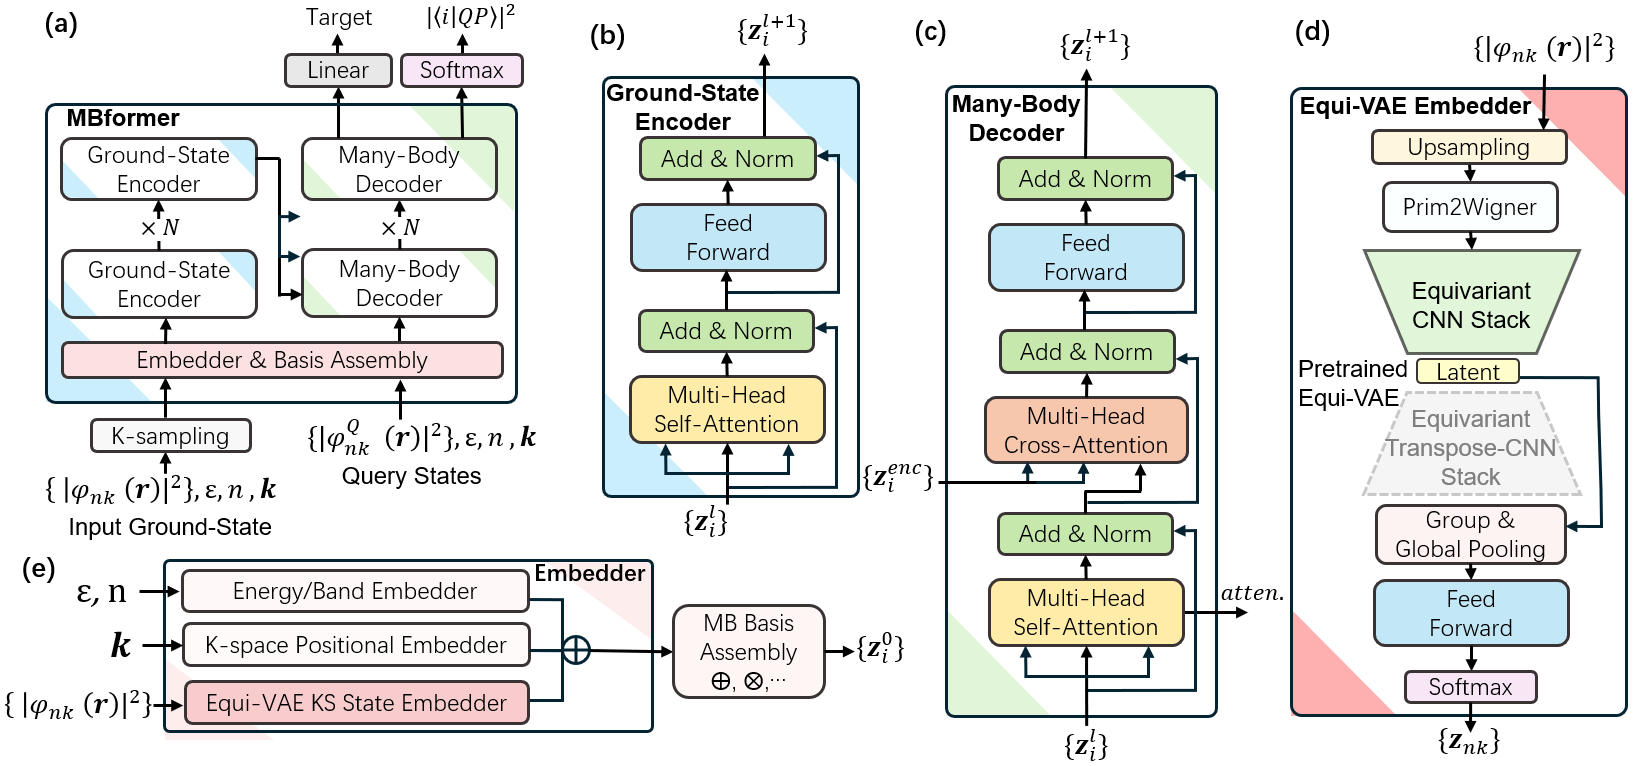
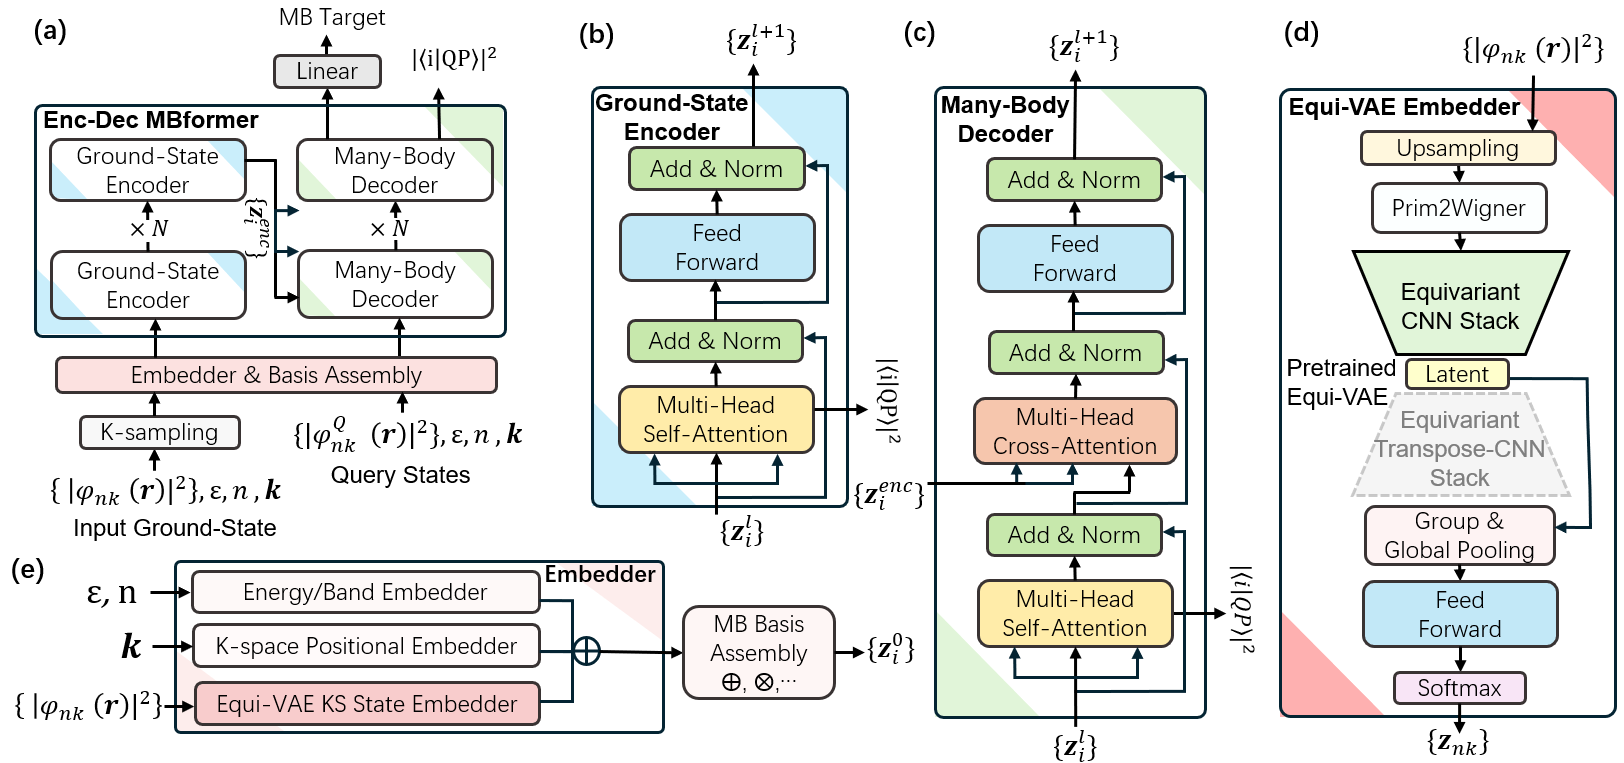
attention layer is added on top of encoder

diff --git a/src/from_model/transformer.py b/src/from_model/transformer.py
@@ -11,86 +11,126 @@ import logging
 from e2vae import print_model_size
 from posemb import PositionalEmbeddings_band_energy_kpt
 from basisassembly import PassBasisAssembly, ElectronHoleBasisAssembly_Concatenate, ElectronHoleBasisAssembly_TensorProduct
+from functools import wraps
+
+def timeCudaWatch(func):
+    """Decorator to measure execution time of a function."""
+    @wraps(func)
+    def wrapper(*args, **kwargs):
+        start = torch.cuda.Event(enable_timing=True)
+        end = torch.cuda.Event(enable_timing=True)
+        
+        start.record()
+        result = func(*args, **kwargs)
+        end.record()
+        torch.cuda.synchronize()
+        
+        logging.debug(f"{func.__name__} execution time: {start.elapsed_time(end) * 1e-3:.3f} s")
+        return result
+    return wrapper
 
 class MBformerEncoder(nn.Module):
     def __init__(self, d_input: int = 24 ,d_output: int = 1, d_model: int = 576, nhead: int = 2, num_encoder_layers: int =3, dim_feedforward: int = 2048, dropout: float = 0.1,
                  activation: str = "relu", layer_norm_eps: float = 1e-5, norm_first: bool = False, bias: bool = True, 
                  max_band: int = 30, kpt_dim: int = 2, base_kpt: int = 10000, base_energy: int = 10000,
-                 BasisAssembly: nn.Module = PassBasisAssembly,):
+                 BasisAssembly: nn.Module = PassBasisAssembly):
         """
         Encoder only Transformer: encode ground-state propertes, such as independent electron, electron-hole pairs.
-        Note: only support independent electron (nbasis=1), and electron-hole pairs (nbasis=2).
+        d_input: int, the dimension of input (raw VAE latent space).
+        d_model: int, the dimension of model
+            d_model depends on how BasisAssembly is implemented.
+            For PassBasisAssembly, d_model = d_input
+            For ElectronHoleBasisAssembly_Concatenate, d_model = d_input * 2
+            For ElectronHoleBasisAssembly_TensorProduct, d_model = d_input ** 2
+        d_output: int, the dimension of output data (depends on the task).
+        Other parameters are the same as nn.TransformerEncoderLayer.
         """
         super().__init__()
 
         self.kpt_dim = kpt_dim
         self.max_band = max_band
-        
         batch_first: bool = True # we use batch_first
         assert activation in ["relu", "gelu", "silu", 'leaky_relu'], f"activation should be relu, gelu or glu, but got {activation}"
 
+        # Modules
+        self.raw_vae_emb = nn.Linear(d_input, d_input)
         self.BasisAssembly = BasisAssembly()
         self.posembedding_kpt_band_energy = PositionalEmbeddings_band_energy_kpt(d_model=d_input, max_band=max_band, kpt_dim=kpt_dim, base_kpt=base_kpt, base_energy=base_energy)
         encoder_layer = nn.TransformerEncoderLayer(d_model=d_model, nhead=nhead, dim_feedforward=dim_feedforward, dropout=dropout, bias=bias,
                                                    activation=activation, layer_norm_eps=layer_norm_eps, batch_first=batch_first, norm_first=norm_first)
         self.encoder = nn.TransformerEncoder(encoder_layer, num_layers=num_encoder_layers)
+        # last layer calculate attention, which is used to predict wavefunction (e.g. AcvkS)
+        self.final_attention = nn.MultiheadAttention(embed_dim=d_model, num_heads=nhead, batch_first=batch_first)        
         self.fc = nn.Linear(d_model, d_output)
+
+        # softmax for raw_vae_emb and self-attention
+        self.softmax = nn.Softmax(dim=-1)
         self.summary()
 
     def summary(self):
         print_model_size(self)
 
+    @timeCudaWatch
+    def compute_embedding(self, datas: list[list[Tensor, Tensor, Tensor, Tensor]]) -> list[Tensor]:
+        return [self.softmax(self.raw_vae_emb(data[0])) +
+                self.posembedding_kpt_band_energy(data[1][..., :self.kpt_dim], data[2], data[3])
+                for data in datas]
+    @timeCudaWatch
+    def assemble_basis(self, x_emb: list[Tensor]) -> Tensor:
+        return self.BasisAssembly(*x_emb)
+
+
+    @timeCudaWatch
+    def encode(self, x_emb: Tensor) -> Tensor:
+        x_emb = x_emb.view(x_emb.shape[0], -1, x_emb.shape[-1])
+        x_emb = self.encoder(x_emb)
+        return x_emb
+    
+    @timeCudaWatch
+    def calculate_attention(self, y: Tensor) -> Tensor:
+        return self.final_attention(y, y, y)
+    
+    @timeCudaWatch
+    def apply_final_linear(self, y: Tensor) -> Tensor:
+        return self.fc(y)
+
     def forward(self, datas: list[list[Tensor, Tensor, Tensor, Tensor]]) -> torch.Tensor:
 
         """
-        datas: [data1. data2, ...]
-        data: [src, kpt, band, energy]
-            src: (batch, nk, nb, d_model), nbasis is the number of basis, nk is the number of k-points, nb is the number of bands.
-            kpt: (batch, nk, nb, 3), 3 is the dimension of k-point.
-            band: (batch, nk, nb, 1), nb is the number of bands.
-            energy: (batch, nk, nb, 1), nb is the number of bands.
+        Input:
+            datas: [data1. data2, ...], len(datas) = number of basis (1 or 2)
+            data: [vae_raw_emb, kpt, band, energy]
+                vae_raw_emb: (batch, nk, nb, d_model), nk is the number of k-points, nb is the number of bands.
+                kpt: (batch, nk, nb, 3), 3 is the dimension of k-point.
+                band: (batch, nk, nb, 1), nb is the number of bands.
+                energy: (batch, nk, nb, 1), nb is the number of bands.
+        Output:
+            y(default): (batch, nk, (nb1, nb2...), d_output)
+                nb1, nb2... is the number of bands for different basis.
+                e.g. (batch, nk, 1, d_output) for independent electron, 
+                     (batch, nk, 2, d_output) for electron-hole pairs.
+            attention(default): (batch, (nk, nb1, nb2...), (nk, nb1, nb2...)) 
         """
 
         assert len(datas) <= 2, "Support only 1 or 2 inputs for now."
         assert self.BasisAssembly.nbasis == 2 if len(datas) == 2 else 1, f"nbasis should be 2 if len(datas) == 2, but got {self.BasisAssembly.nbasis}"
-        start = torch.cuda.Event(enable_timing=True)
-        end = torch.cuda.Event(enable_timing=True)
 
-        # Positional Embedding
-        start.record()
-        x_emb = [datas[i][0] + self.posembedding_kpt_band_energy(datas[i][1][..., :self.kpt_dim], datas[i][2], datas[i][3]) for i in range(len(datas))]
-        end.record(); torch.cuda.synchronize()
-        logging.debug(f"Embedding computation: {start.elapsed_time(end)*1e-3:.3f} s")
+        x_emb = self.compute_embedding(datas) #-> list[Tensor], (batch, nk, nb1, d_model)
+        x_emb = self.assemble_basis(x_emb) # -> Tensor, (batch, nk, (nb1, nb2..)., d_model)
+        y = self.encode(x_emb) # -> Tensor, (batch, nk*nb1*nb2.., d_model)
 
-        # Basis Assembly
-        start.record()
-        x_emb = self.BasisAssembly(*x_emb)
-        end.record(); torch.cuda.synchronize()
-        logging.debug(f"Basis Assembly ({len(datas)} inputs): {start.elapsed_time(end)*1e-3:.3f} s")
-
-        # Encoder
-        start.record()
-        x_emb_shape = x_emb.shape
-        x_emb = x_emb.view(x_emb.shape[0], -1, x_emb.shape[-1])
-        y = self.encoder(x_emb)
-        end.record(); torch.cuda.synchronize()
-        logging.debug(f"Encoder computation: {start.elapsed_time(end)*1e-3:.3f} s")
-
-        # Linear
-        start.record()
-        y = self.fc(y)
-        end.record(); torch.cuda.synchronize()
-        logging.debug(f"Linear computation: {start.elapsed_time(end)*1e-3:.3f} s")
+        # calculate attention and output
+        _, attn_weights = self.calculate_attention(y)  # -> Tensor, (batch, nk*nb1*nb2.., nk*nb1*nb2..)
+        y = self.apply_final_linear(y)
         
-        # Reshape to output (batch, nk, (nb1, nb2...), d_output)
-        y_emb_shape = x_emb_shape[:-1] + (y.shape[-1],)
-        y = y.view(*y_emb_shape)
-        return y
+        y_emb_shape = x_emb.shape[:-1] + (y.shape[-1],)
+        attn_weights_shape = attn_weights.shape[0:1] + x_emb.shape[1:-1] + x_emb.shape[1:-1] 
+        return y.view(*y_emb_shape), attn_weights.view(*attn_weights_shape)
+    
 
 if __name__ == "__main__":
-    logging.basicConfig(level=logging.DEBUG, format='%(asctime)s - %(levelname)s - %(message)s')
+    logging.basicConfig(level=logging.DEBUG, format='%(asctime)s-%(levelname)s-%(message)s')
     # logging.basicConfig(level=logging.INFO)
-
     ele = d.get_ele_data_batch()
     hole = d.get_hole_data_batch()
     enc1 = MBformerEncoder(d_input=d.d_model, d_model=d.d_model)
@@ -98,8 +138,6 @@ if __name__ == "__main__":
                            BasisAssembly=ElectronHoleBasisAssembly_Concatenate)
     enc3 = MBformerEncoder(d_input=d.d_model, d_model=d.d_model**2, num_encoder_layers=3,
                            BasisAssembly=ElectronHoleBasisAssembly_TensorProduct)
-    # print('ele.shape:',ele[0].shape)
-    # print('hole.shape:',hole[0].shape)
-    # print('enc1(ele) shape:',enc1([ele]).shape)
-    # print('enc2(ele, hole) shape:',enc2([ele, hole]).shape)
-    print('enc3(ele, hole) shape:',enc3([ele, hole]).shape)
+    val, atten = enc3([ele, hole])
+    print('enc3(ele, hole) shape:',val.shape)
+    print('enc3(ele, hole) shape:',atten.shape)
